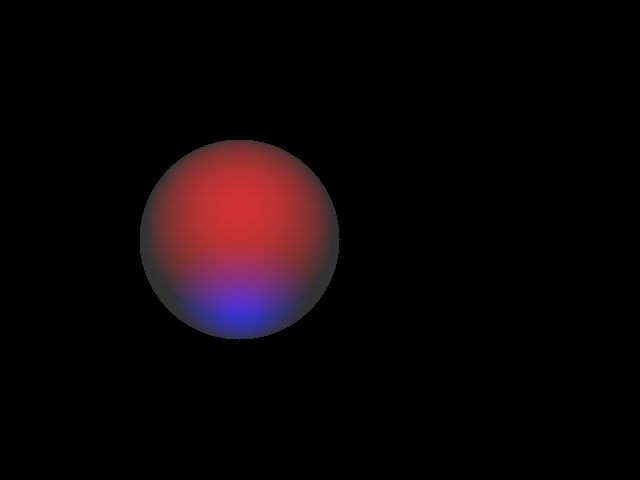
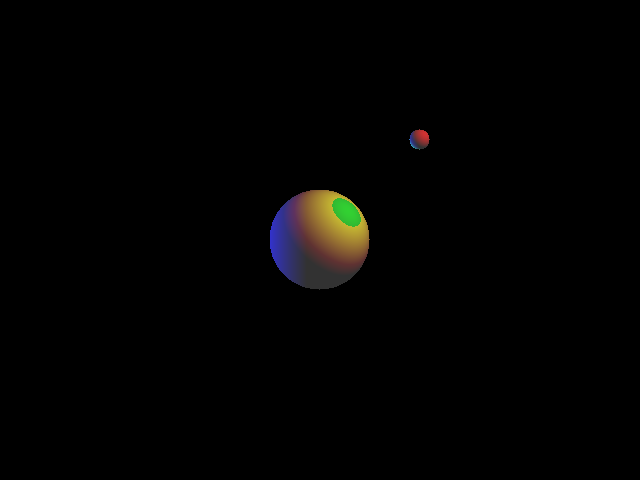
Add shadow support. Bug fix

Changed region(s): [[0.2188, 0.2812, 0.5938, 0.7188], [0.625, 0.25, 0.6875, 0.3125]]

diff --git a/SharpRay/Core/shader.cpp b/SharpRay/Core/shader.cpp
@@ -14,13 +14,11 @@ void Shader::shade(const Ray* r, const World* world)
 	si->hitNormal = si->firstHitEntity->normalAt(si->firstHitPoint);
 	for (auto i = world->lightList.begin(); i != world->lightList.end(); i++)
 	{
-		if ((*i)->isInShadow(si))
-			continue;
-		vector3D lightDirection = (*i)->getDirection(si);
-		float cosLN = dot(lightDirection, si->hitNormal);
-		if (cosLN< 0)
-			continue;
-		si->Lo += si->firstHitEntity->material->Lo(si, lightDirection, (*i)->Li(si, lightDirection)*cosLN);
+		RColor Li; float cosLn;
+		if ((*i)->Li(this, si, Li, cosLn))
+		{
+			si->Lo += si->firstHitEntity->material->Lo(si, cosLn, Li*cosLn);
+		}
 	}
 
 	si->Lo += RColor(0.5);
@@ -42,7 +40,7 @@ void Shader::exposure(const World* world)
 	}
 }
 
-bool Shader::castShadowRay(Ray* r, const World* w)
+bool Shader::castShadowRay(Ray* r, const World* w) const
 {
 	ShadeInfo *si = r->shadeInfo;
 	for (auto i = w->entityList.begin(); i != w->entityList.end(); i++)
@@ -50,11 +48,11 @@ bool Shader::castShadowRay(Ray* r, const World* w)
 		float t = (*i)->firstHit(r);
 		if (!isfinite(t))
 			continue;
-		if (t < si->firstHitT)
+		if (t < si->firstHitT - (*i)->kEpsilon)
 		{
-			if (t < (*i)->kEpsilon)
-				continue;
-			r->shadeInfo->firstHitT = t;
+			si->firstHitT = t;
+			si->firstHitEntity = *i;
+			si->firstHitPoint = r->origin + r->direction*si->firstHitT;
 			return true;
 		}
 	}

diff --git a/SharpRay/main.cpp b/SharpRay/main.cpp
@@ -12,20 +12,29 @@ int main()
 	Material matt;
 	matt.kd = 20.0f;
 
-	auto s = new Sphere(point3D(0, 0, 0), 1.0f);
+	auto s = new Sphere(point3D(-1.f, -1.f, 1.f), 0.1f);
+	s->material = &matt;
+	t.entityList.push_back(s);
+
+	s = new Sphere(point3D(0, 0, 0), 0.5f);
 	s->material = &matt;
 	t.entityList.push_back(s);
 	
 	spotLight sp;
 	sp.ls = 1;
-	sp.position = vector3D(0, 1, 1);
+	sp.position = vector3D(2, 0, 0);
 	sp.color = RColor(0.f, 0.f, 1.f);
 	t.lightList.push_back(&sp);
 	spotLight sp2;
 	sp2.ls = 1;
-	sp2.position = vector3D(0, -1, 3);
+	sp2.position = vector3D(-2.f, -2.f, 2.f);
 	sp2.color = RColor(1.f, 0.f, 0.f);
 	t.lightList.push_back(&sp2);
+	spotLight sp3;
+	sp3.ls = 1;
+	sp3.position = vector3D(-0.7f, -0.7f,0.7f);
+	sp3.color = RColor(0.f, 1.f, 0.f);
+	t.lightList.push_back(&sp3);
 
 	pinhole c(vector3D(0,1,0),vector3D(0,0,-4),point3D(0,0,4),&film,2.0f);
 

diff --git a/SharpRay/Light/spotLight.cpp b/SharpRay/Light/spotLight.cpp
@@ -1,13 +1,22 @@
 #include "spotLight.h"
 #include <Core/shader.h>
-vector3D spotLight::getDirection(ShadeInfo* si){
-	return normalize(position - si->firstHitPoint);
-}
-bool spotLight::isInShadow(ShadeInfo*) const{
-	return false;
-}
-RColor spotLight::Li(ShadeInfo*, const vector3D& lightDirection) const {
-	return (ls*color);
+#include <Core/ray.h>
+
+bool spotLight::Li(Shader* shader, ShadeInfo* si, RColor& colorOut, float& cosin) const {
+	vector3D lightDirection = si->firstHitPoint - position;
+	cosin = dot(lightDirection, -si->hitNormal);
+	if (cosin < 0)
+		return false;
+	ShadeInfo ssi;
+	ssi.firstHitT = glm::length(lightDirection);
+	Ray r(position, lightDirection);
+	r.shadeInfo = &ssi;
+	
+	if (shader->castShadowRay(&r, si->world))
+		return false;
+	colorOut = ls*color;
+	cosin /= ssi.firstHitT;
+	return true;
 }
 
 spotLight::spotLight()

diff --git a/SharpRay/Core/film.cpp b/SharpRay/Core/film.cpp
@@ -9,7 +9,7 @@ void Film::dumpToFile(const char* fName)
 		int I = i / filmWidth;
 		int J = i % filmWidth;
 		fout.set_pixel(J, I, png::rgb_pixel((byte)(pixelList[i].color.r*100.f),
-			(byte)(pixelList[i].color.g * 100.0f),
+			(byte)(pixelList[i].color.g * 100.f),
 			(byte)(pixelList[i].color.b * 100.f)));
 	}
 	fout.write(fName);
@@ -18,7 +18,7 @@ void Film::dumpToFile(const char* fName)
 Film::Film(int w, int h, float ps) :filmWidth(w), filmHeight(h), pixelSize(ps), pixelCnt(w*h)
 {
 	pixelList = new Pixel[w*h];
-	float minX = -filmHeight / 2.0f * pixelSize, x, y = filmHeight / 2.0f *pixelSize;
+	float minX = -filmWidth / 2.0f * pixelSize, x, y = filmHeight / 2.0f *pixelSize;
 	unsigned int index = 0;
 	for (int i = 0; i < h; i++)
 	{

diff --git a/SharpRay/Core/ray.h b/SharpRay/Core/ray.h
@@ -20,8 +20,9 @@ struct Ray
 	
 	void trace();
 
-	Ray(point3D& o, vector3D& d, Film* cf, Pixel* p) :origin(o), direction(normalize(d)), currentFilm(cf){ parent.orgPixel = p; isMajor = true; }
-	Ray(point3D& o, vector3D& d, Film* cf, Ray* p) :origin(o), direction(normalize(d)), currentFilm(cf){ parent.orgRay = p; isMajor = false; }
+	Ray(const point3D& o,const vector3D& d, Film* cf, Pixel* p) :origin(o), direction(normalize(d)), currentFilm(cf){ parent.orgPixel = p; isMajor = true; }
+	Ray(const point3D& o,const vector3D& d, Film* cf, Ray* p) :origin(o), direction(normalize(d)), currentFilm(cf){ parent.orgRay = p; isMajor = false; }
+	Ray(const point3D& o, const vector3D& d) :origin(o), direction(normalize(d)){}
 	~Ray();
 };
 #endif

diff --git a/SharpRay/Light/Light.h b/SharpRay/Light/Light.h
@@ -3,14 +3,13 @@
 #include <Core/fmath.h>
 #include <Core/Color.h>
 class ShadeInfo;
+class Shader;
 class Entity;
 class Ray;
 class Light
 {
 public:
-	virtual vector3D getDirection(ShadeInfo*)=0;
-	virtual bool isInShadow(ShadeInfo*) const=0;
-	virtual RColor Li(ShadeInfo*,const vector3D& lightDirection) const = 0;
+	virtual bool Li(Shader* shader, ShadeInfo* si, RColor& colorOut,float& cosin) const = 0;
 	Light();
 	~Light();
 };

diff --git a/SharpRay/Light/spotLight.h b/SharpRay/Light/spotLight.h
@@ -10,9 +10,7 @@ public:
 	RColor color;
 	vector3D position;
 	spotLight();
-	vector3D getDirection(ShadeInfo*) ;
-	bool isInShadow(ShadeInfo*) const ;
-	RColor Li(ShadeInfo*, const vector3D& lightDirection) const;
+	bool Li(Shader* shader, ShadeInfo* si, RColor& colorOut, float& cosin) const;
 	~spotLight();
 };
 #endif

diff --git a/SharpRay/Core/shader.h b/SharpRay/Core/shader.h
@@ -16,9 +16,9 @@ class Shader
 	};
 
 	void castRay(Ray*, const World*);
-	bool castShadowRay(Ray*, const World*);
 public:
 	RayQueue rayQueue;
+	bool castShadowRay(Ray*, const World*) const;
 	void exposure(const World* w);
 	void shade(const Ray*, const World* world);
 	Shader();

diff --git a/SharpRay/Physical/Material.h b/SharpRay/Physical/Material.h
@@ -8,7 +8,7 @@ class Material
 public:
 	float ka, kd;
 	RColor cd;
-	virtual RColor Lo(ShadeInfo* si, vector3D lightDirection, RColor Li)
+	virtual RColor Lo(ShadeInfo* si, float cosLn, RColor Li)
 	{
 		return kd*Li / (4.0f * 3.14f);
 	}
